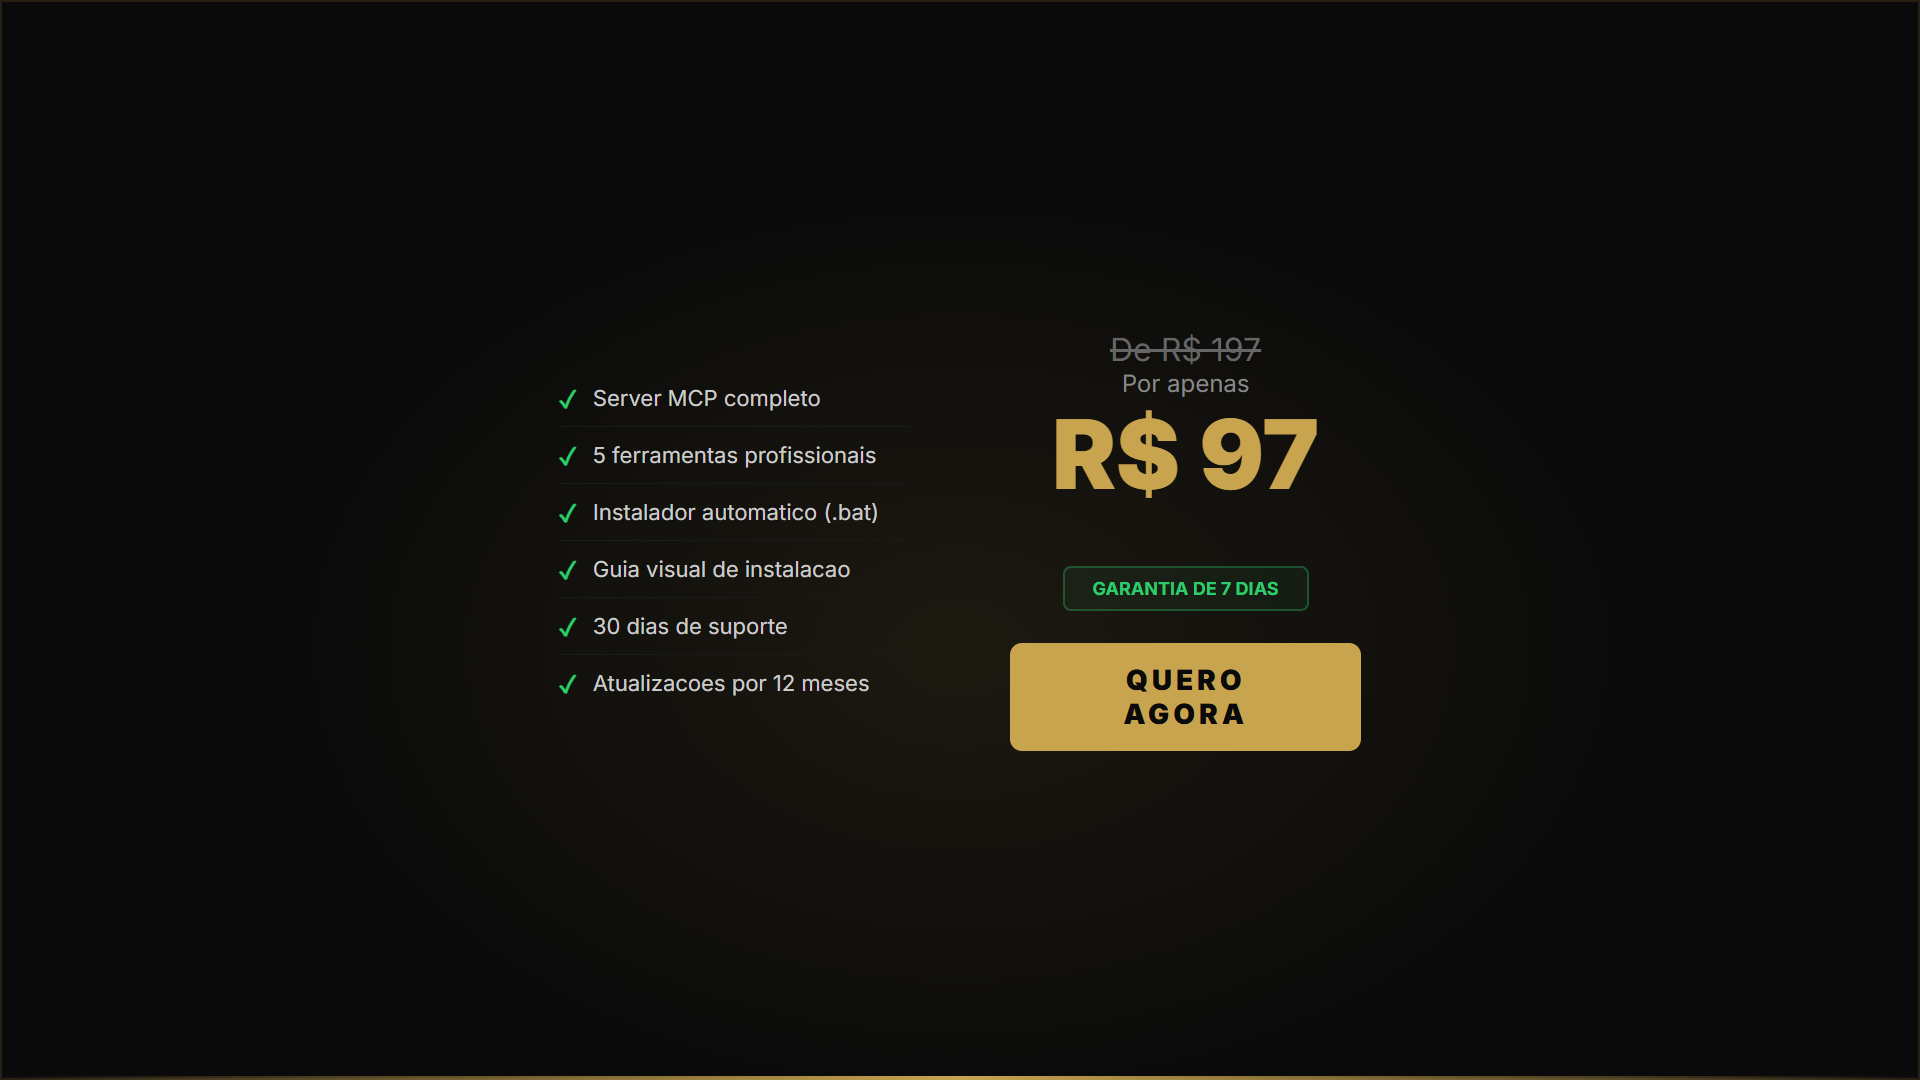
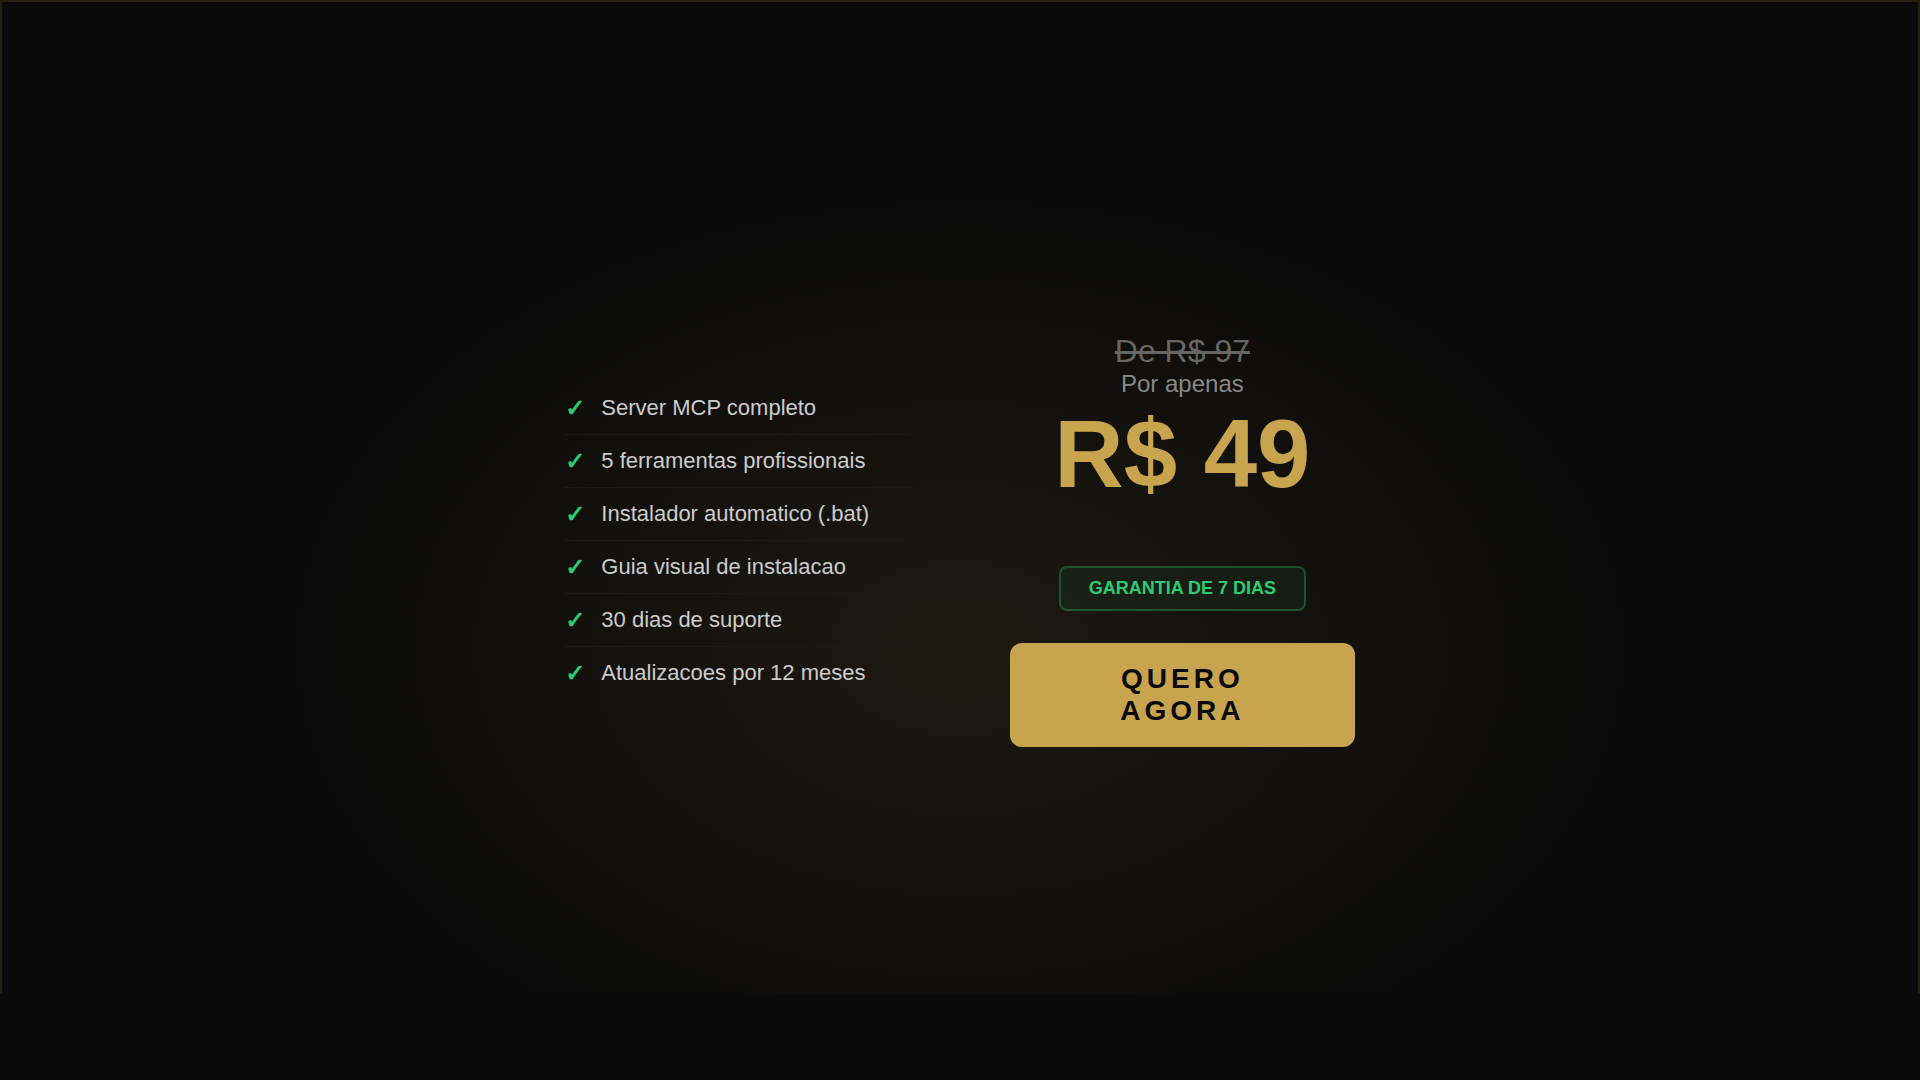
Atualiza artes de preco do MCP para R$49 + botao Ver detalhes no card
Regenera 08-preco-cta, 14-preco-vertical e banner-hotmart em R$49 (de R$97) a
partir dos HTMLs de origem; adiciona botao "Ver detalhes" -> /mcp-tradingview
no card do produto.

Claude-Session: https://claude.ai/code/session_01MCeuyeD5PtuN7BPZmyAUaE

diff --git a/index.html b/index.html
@@ -506,7 +506,7 @@
       name:"MCP TradingView Gold",
       desc:"Dados do ouro (XAUUSD) em tempo real direto no Claude AI. Traz o gráfico pra dentro da sua conversa e analisa com você.",
       price:"R$49,00", old:"R$97,00", inst:"XAUUSD · IA · tempo real",
-      img:"/assets/capa-mcp-tradingview.png", contain:true, checkout:"https://pay.hotmart.com/M106450067D"
+      img:"/assets/capa-mcp-tradingview.png", contain:true, detail:"/mcp-tradingview", checkout:"https://pay.hotmart.com/M106450067D"
     },
     {
       cat:"mentoria", kicker:"Mentoria", badge:"soon", badgeText:"Em breve",
@@ -541,12 +541,13 @@
     var pays = p.checkout
       ? '<div class="minipays"><span class="paytag">PIX</span><span class="paytag">DÉBITO</span><span class="paytag">CRÉDITO 12×</span></div>'
       : '';
+    var detail = p.detail ? '<a href="'+p.detail+'" class="btn btn-ghost">Ver detalhes</a>' : '';
     return '<article class="card" data-cat="'+p.cat+'">'
       + '<div class="thumb"'+thumbStyle+'>'+badge+thumb+'</div>'
       + '<div class="body"><div class="kicker">'+p.kicker+'</div>'
       + '<h3>'+p.name+'</h3><div class="desc">'+p.desc+'</div>'
       + priceBlock + pays
-      + '<div class="actions">'+action+'</div></div></article>';
+      + '<div class="actions">'+action+detail+'</div></div></article>';
   }
 
   var grid = document.getElementById("grid");

diff --git a/referencias/14-preco-vertical.html b/referencias/14-preco-vertical.html
@@ -33,9 +33,9 @@ body{width:1080px;height:1920px;background:#0A0A0A;display:flex;align-items:cent
         <li><span class="check">&#10003;</span> Atualizacoes por 12 meses</li>
     </ul>
     <div class="price-block">
-        <div class="old-price">De R$ 197</div>
+        <div class="old-price">De R$ 97</div>
         <div class="new-price-label">Por apenas</div>
-        <div class="new-price">R$ 97</div>
+        <div class="new-price">R$ 49</div>
     </div>
     <div class="guarantee">GARANTIA DE 7 DIAS</div>
     <br>

diff --git a/referencias/08-preco-cta.html b/referencias/08-preco-cta.html
@@ -40,9 +40,9 @@ body{width:1920px;height:1080px;background:#0A0A0A;display:flex;align-items:cent
     </div>
     <div class="right">
         <div class="price-block">
-            <div class="old-price">De R$ 197</div>
+            <div class="old-price">De R$ 97</div>
             <div class="new-price-label">Por apenas</div>
-            <div class="new-price">R$ 97</div>
+            <div class="new-price">R$ 49</div>
         </div>
         <div class="guarantee">GARANTIA DE 7 DIAS</div>
         <br>

diff --git a/referencias/banner-hotmart.html b/referencias/banner-hotmart.html
@@ -67,8 +67,8 @@ body{width:1280px;height:400px;background:#0A0A0A;font-family:'Inter',sans-serif
         </div>
     </div>
     <div class="price-area">
-        <div class="price-old">R$ 197</div>
-        <div class="price-new">R$ 97</div>
+        <div class="price-old">R$ 97</div>
+        <div class="price-new">R$ 49</div>
         <div class="price-label">Pagamento unico</div>
         <div class="buy-btn">QUERO AGORA</div>
         <div class="guarantee">Garantia de 7 dias</div>

diff --git a/referencias/09-thumbnail-youtube.html b/referencias/09-thumbnail-youtube.html
@@ -24,7 +24,7 @@ body{width:1280px;height:720px;background:#0A0A0A;display:flex;align-items:cente
 <div class="bg"></div>
 <div class="border"></div>
 <div class="logo">RICHARTRADER</div>
-<div class="badge-price">R$ 97</div>
+<div class="badge-price">R$ 49</div>
 <div class="content">
     <div class="left">
         <div class="avatar-placeholder"><img src="png/caricatura.png" alt="Rick"></div>

diff --git a/referencias/09-thumbnail-youtube-v2.html b/referencias/09-thumbnail-youtube-v2.html
@@ -51,8 +51,8 @@ body{width:1280px;height:720px;background:#0A0A0A;font-family:'Inter',sans-serif
 <div class="border-bottom"></div>
 
 <div class="price-badge">
-    <div class="old">R$ 197</div>
-    <div class="new">R$ 97</div>
+    <div class="old">R$ 97</div>
+    <div class="new">R$ 49</div>
 </div>
 
 <div class="content">
